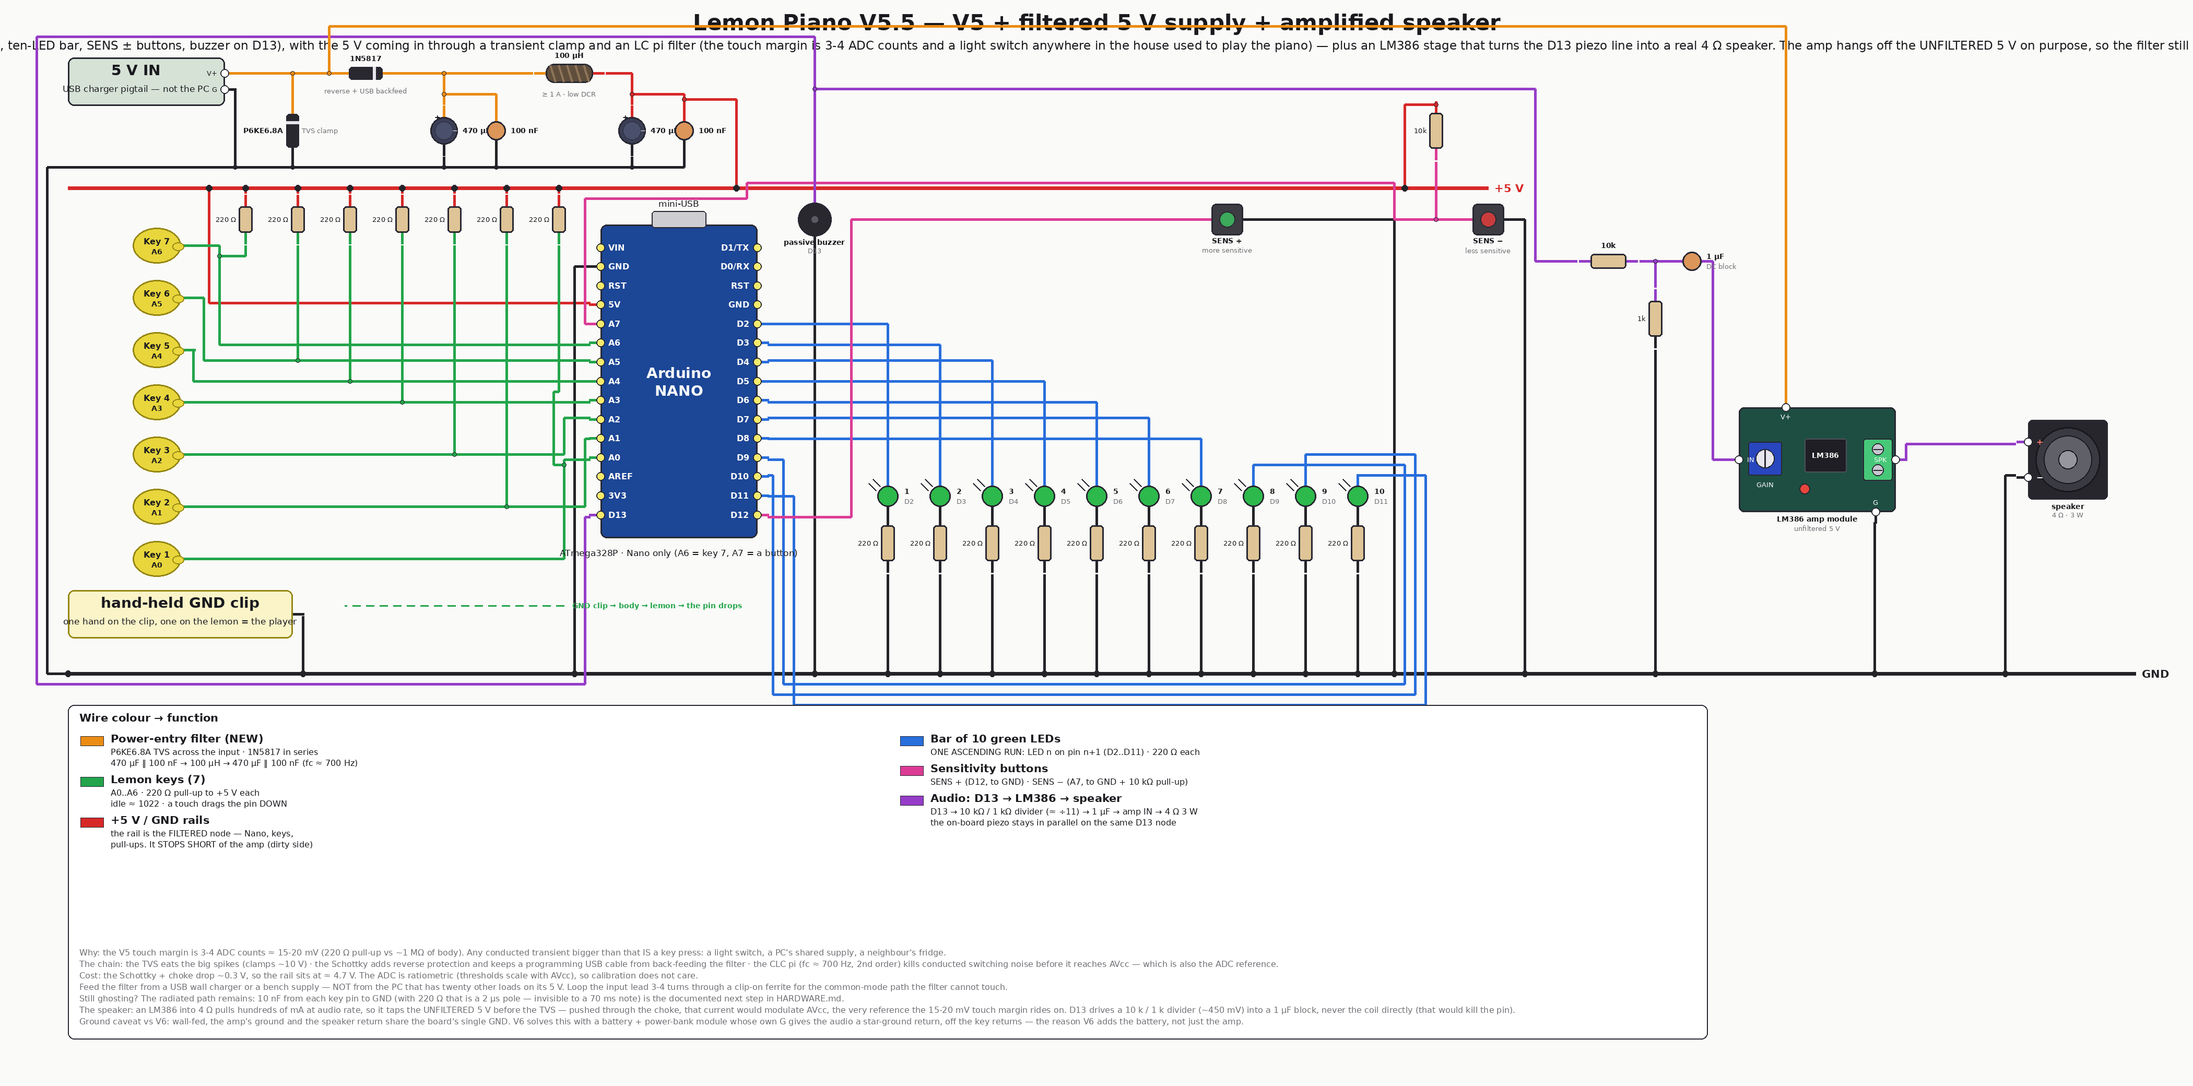
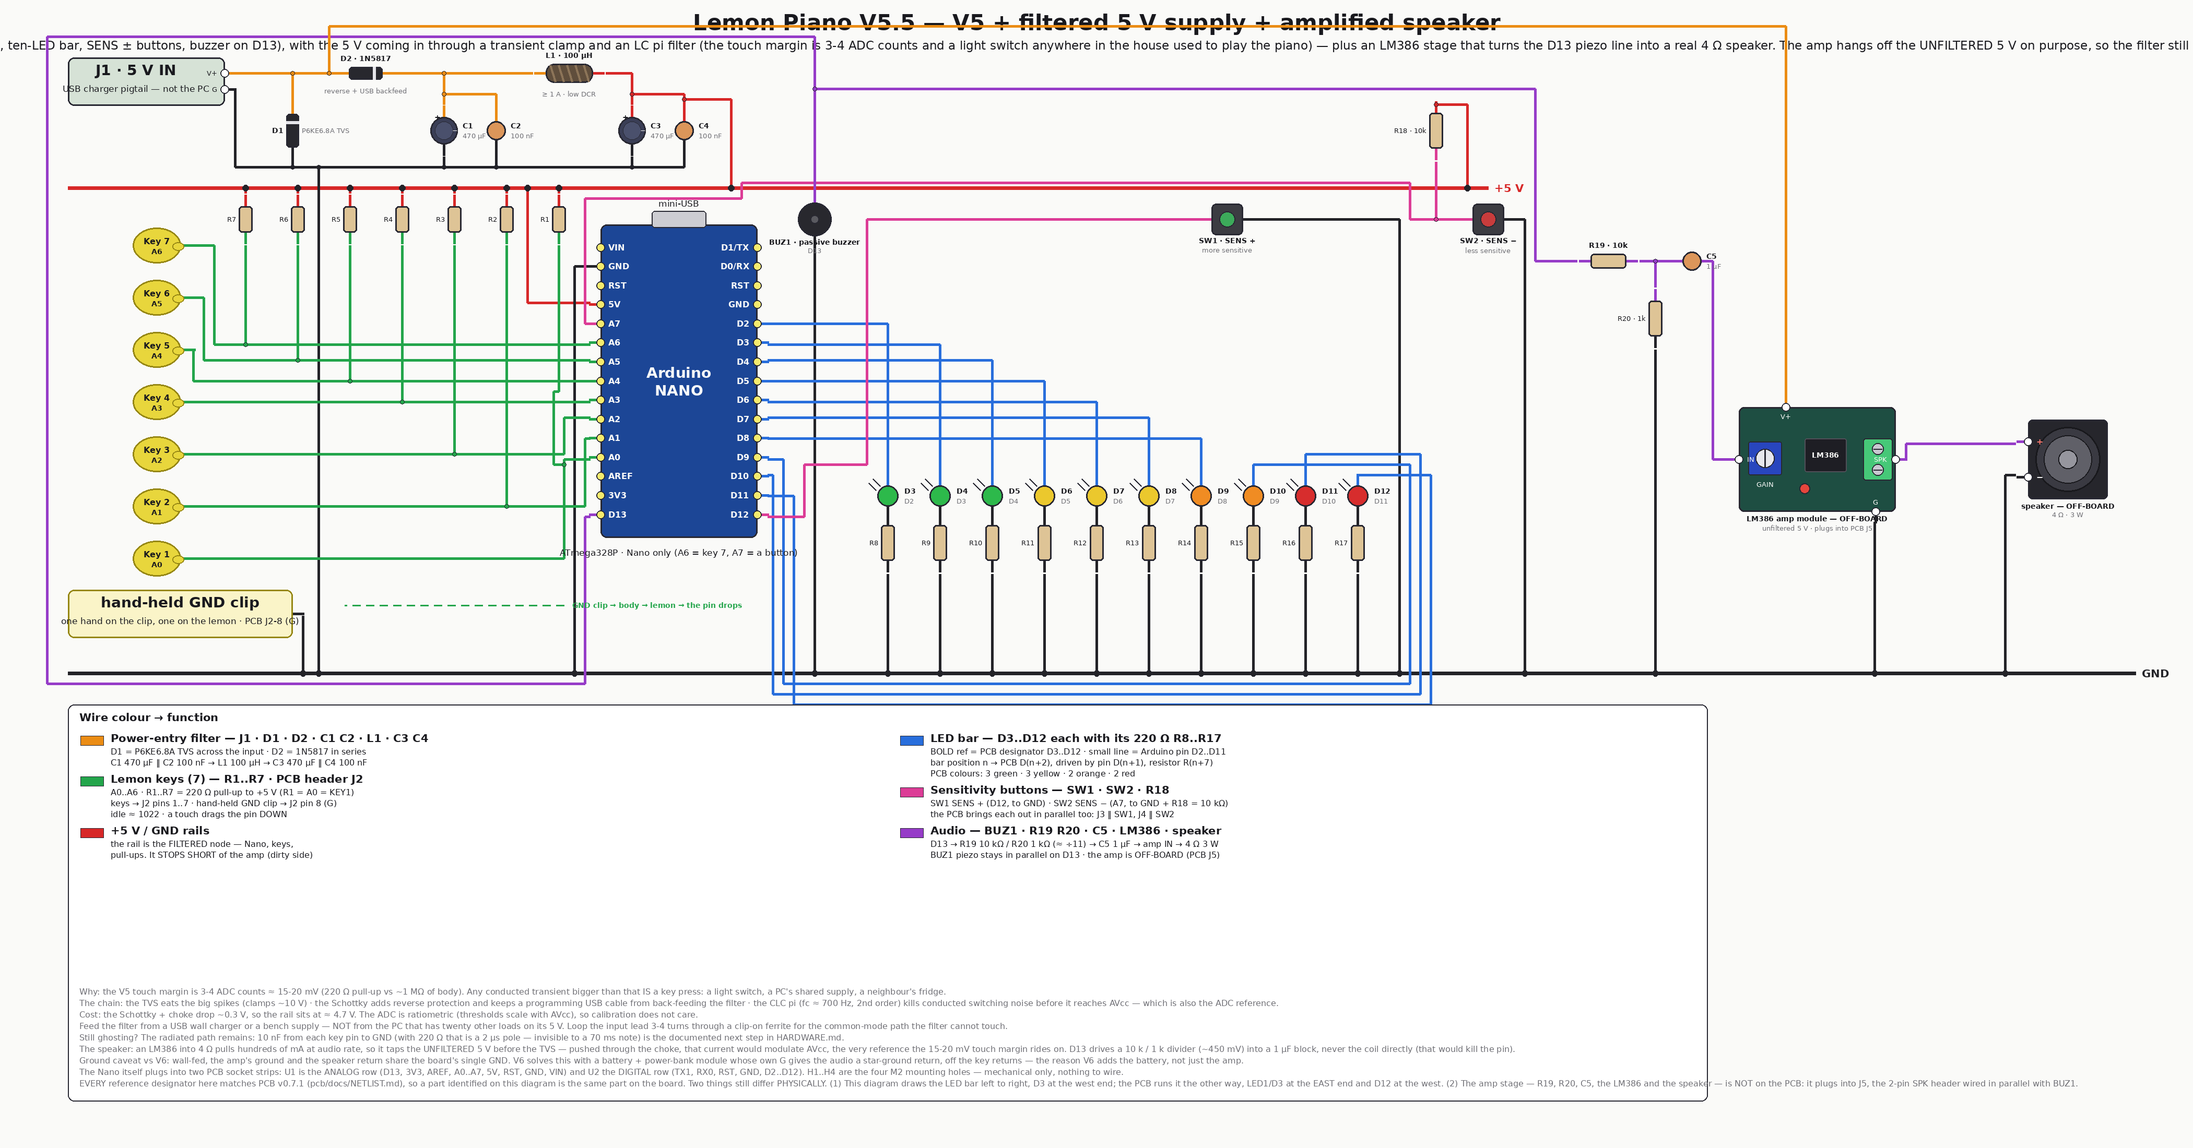
docs(v5.5): label every part in the wiring diagram with its PCB v0.7.1 designator
The V5.5 breadboard is built and the PCB exists, so a component has to be
findable on both. The diagram showed values only (470 uF, 220 Ohm), which
cannot be matched against a board silkscreen.

build_v5_5() now labels all 42 parts with the designator from
pcb/docs/NETLIST.md: J1 D1 D2 C1 C2 L1 C3 C4 for the filter, R1..R7 for the key
pull-ups (R1 = A0 = KEY1), D3..D12 with R8..R17 for the LED bar, BUZ1 SW1 SW2
R18 for the UI, and R19 R20 C5 for the off-board amp. Values move into the
legend where a part has only one text slot.

The LED bar carries BOTH numbers, because they are off by one and that is the
easiest mistake to make: the bold ref is the PCB designator D3..D12, the small
line under it is the Arduino pin D2..D11 driving it. LED colours now match the
PCB VU meter (3 green, 3 yellow, 2 orange, 2 red per ADR-021) instead of ten
green, verified by sampling the rendered pixels at the bar centres.

keyboard_2019() gains refs=False so only V5.5 opts in: re-rendering all ten
revisions changed only wiring-v5.5.png, and V1, V2, V2.5, V3, V5 and V6 are
byte-identical.

The legend adds the PCB cross-reference (J2 keys header with pin 8 = G for the
clip, J3/J4 parallel to the SENS buttons, J5 where the amp plugs in, U1/U2 the
Nano socket rows, H1..H4 the M2 holes) and states the two physical differences:
the PCB runs the LED bar the other way round with LED1/D3 at the EAST end, and
the amp stage is off-board. HARDWARE.md gains the full designator table.
[…]

diff --git a/tools/wiring_diagrams.py b/tools/wiring_diagrams.py
@@ -69,7 +69,7 @@ def _board(title, subtitle, board, h=H, gnd_y=RAIL_GND_Y, w=W,
 
 
 # ── keyboard, 2019 wiring (player holds GND, pins biased HIGH) ───────────────
-def keyboard_2019(s, fruit="banana", dx=0):
+def keyboard_2019(s, fruit="banana", dx=0, refs=False):
     """Each analog pin is pulled UP to +5 V through 220 Ω and reads ~1023 idle;
     the fruit sits directly on the pin, so touching it drags the pin down
     through the player's body to the hand-held GND clip (`analogRead <= 1019`).
@@ -80,9 +80,16 @@ def keyboard_2019(s, fruit="banana", dx=0):
     `dx` shifts the whole keyboard east. V6 needs it: the battery + power-bank
     module take the top-left corner that used to be the filter's, so the filter
     and the board it feeds both move east by the same amount and the left→right
-    power flow stays intact. dx=0 reproduces V1..V5.5 byte-for-byte."""
+    power flow stays intact. dx=0 reproduces V1..V5.5 byte-for-byte.
+
+    `refs=True` labels the pull-ups with their PCB reference designators
+    (R1..R7, where R1 = A0 = KEY1) and points the clip at the PCB's J2-8
+    terminal. Only V5.5 has a PCB, so it defaults OFF and every other
+    revision renders byte-for-byte as before."""
     s.add(lib.clip_box("CLIP", 130 + dx, 1130, w=430, title="hand-held GND clip",
-                       sub=f"one hand on the clip, one on the {fruit} = the player"))
+                       sub=(f"one hand on the clip, one on the {fruit} = the player"
+                            if not refs else
+                            f"one hand on the clip, one on the {fruit} · PCB J2-8 (G)")))
     s.connect("clipgnd", C["gnd"], P("CLIP", "out"), R("GND"))
 
     key_ys = [470 + i * 100 for i in range(7)]
@@ -92,7 +99,8 @@ def keyboard_2019(s, fruit="banana", dx=0):
         ky = key_ys[row]
         s.add(lib.lemon_key(f"K{ai}", KEY_X + dx, ky, ai + 1, f"A{ai}"))
         rx = 470 + dx + row * 100                   # own channel per key in the pull-up comb
-        s.add(lib.resistor(f"RK{ai}", rx, PULLUP_Y, orient="V", length=50))
+        s.add(lib.resistor(f"RK{ai}", rx, PULLUP_Y, orient="V", length=50,
+                           **({"label": f"R{ai + 1}"} if refs else {})))
         # ONE node: the pin, the fruit clip and the pull-up's low side.
         s.connect(f"kn{ai}", C["key"], P("U1", f"A{ai}"), P(f"K{ai}", "clip"), P(f"RK{ai}", "b"))
         s.connect(f"kp{ai}", C["v5"], P(f"RK{ai}", "a"), R("5V"))
@@ -507,22 +515,27 @@ def build_v5_5():
                "off the UNFILTERED 5 V on purpose, so the filter still only sees the "
                "keyboard's quiet load.",
                "ATmega328P · Nano only (A6 = key 7, A7 = a button)",
-               w=4200, h=2080, gnd_y=GND_2019, v5_x1=2850)
-    keyboard_2019(s, fruit="lemon")
+               w=4200, h=2200, gnd_y=GND_2019, v5_x1=2850)
+    keyboard_2019(s, fruit="lemon", refs=True)
 
     # ── the power-entry filter, left to right across the top band ────────────
-    s.add(lib.power_jack("J1", 130, 110, title="5 V IN",
+    # Every part carries its PCB v0.7.1 reference designator, so the same
+    # component can be found on the breadboard and on the board (docs/NETLIST.md:
+    # J1 5V_IN · D1 TVS · D2 Schottky · C1‖C2 input · L1 choke · C3‖C4 output).
+    s.add(lib.power_jack("J1", 130, 110, title="J1 · 5 V IN",
                          sub="USB charger pigtail — not the PC"))
-    s.add(lib.diode("DTVS", 560, 250, orient="V", flip=True, label="P6KE6.8A",
-                    sub="TVS clamp"))
-    s.add(lib.diode("DS", 700, 140, orient="H", label="1N5817",
+    s.add(lib.diode("DTVS", 560, 250, orient="V", flip=True, label="D1",
+                    sub="P6KE6.8A TVS"))
+    s.add(lib.diode("DS", 700, 140, orient="H", label="D2 · 1N5817",
                     sub="reverse + USB backfeed"))
-    s.add(lib.capacitor("CF1", 850, 250, orient="V", polarized=True, label="470 µF"))
-    s.add(lib.capacitor("CF2", 950, 250, orient="V", label="100 nF"))
-    s.add(lib.inductor("LF1", 1090, 140, orient="H", label="100 µH",
+    s.add(lib.capacitor("CF1", 850, 250, orient="V", polarized=True,
+                        label="C1", sub="470 µF"))
+    s.add(lib.capacitor("CF2", 950, 250, orient="V", label="C2", sub="100 nF"))
+    s.add(lib.inductor("LF1", 1090, 140, orient="H", label="L1 · 100 µH",
                        sub="≥ 1 A · low DCR"))
-    s.add(lib.capacitor("CF3", 1210, 250, orient="V", polarized=True, label="470 µF"))
-    s.add(lib.capacitor("CF4", 1310, 250, orient="V", label="100 nF"))
+    s.add(lib.capacitor("CF3", 1210, 250, orient="V", polarized=True,
+                        label="C3", sub="470 µF"))
+    s.add(lib.capacitor("CF4", 1310, 250, orient="V", label="C4", sub="100 nF"))
 
     s.connect("vin", C["ctrl"], P("J1", "vout"), P("DTVS", "cathode"), P("DS", "anode"),
               P("AMP", "vcc"))
@@ -532,25 +545,34 @@ def build_v5_5():
               P("CF2", "b"), P("CF3", "b"), P("CF4", "b"), R("GND"))
 
     # ── everything below is V5, unchanged ────────────────────────────────────
+    # PCB v0.7.1: the bar is D3..D12 (LED n = D(n+2)) with R8..R17 in series,
+    # and the VU colours are 3 green / 3 yellow / 2 orange / 2 red (ADR-021).
+    # The bold ref is the PCB designator, the small line under it the Arduino
+    # pin driving it — they are OFF BY ONE, which is why both are shown.
     pins = ["D2", "D3", "D4", "D5", "D6", "D7", "D8", "D9", "D10", "D11"]
+    VU = ([(45, 185, 75)] * 3 + [(235, 200, 45)] * 3
+          + [(240, 140, 35)] * 2 + [(215, 45, 45)] * 2)
     x0, dx, ybar = 1700, 100, 950
     for i, pin in enumerate(pins):
         cx = x0 + i * dx
         cid = f"L{i}"
-        s.add(lib.led(cid, cx, ybar, (45, 185, 75), str(i + 1), pin, anode="N", cathode="S"))
-        s.add(lib.resistor(f"{cid}R", cx, ybar + 90, orient="V"))
+        s.add(lib.led(cid, cx, ybar, VU[i], f"D{i + 3}", pin, anode="N", cathode="S"))
+        s.add(lib.resistor(f"{cid}R", cx, ybar + 90, orient="V",
+                           label=f"R{i + 8}"))
         s.connect(f"a{i}", C["led"], P("U1", pin), P(cid, "anode"))
         s.connect(f"c{i}", C["gnd"], P(cid, "cathode"), P(f"{cid}R", "a"))
         s.connect(f"g{i}", C["gnd"], P(f"{cid}R", "b"), R("GND"))
 
-    s.add(lib.buzzer("BUZ", 1560, 420, label="passive buzzer", pin_label="D13"))
+    s.add(lib.buzzer("BUZ", 1560, 420, label="BUZ1 · passive buzzer",
+                     pin_label="D13"))
     s.connect("buzgnd", C["gnd"], P("BUZ", "gnd"), R("GND"))
 
-    _button_to_gnd(s, "SUP", 2350, 420, "D12", "SENS +", "more sensitive",
+    _button_to_gnd(s, "SUP", 2350, 420, "D12", "SW1 · SENS +", "more sensitive",
                    C["margin"], (60, 170, 90))
 
-    s.add(lib.push_button("SDN", 2850, 420, "SENS −", "less sensitive", cap=(200, 60, 60)))
-    s.add(lib.resistor("SDNPU", 2750, 250, orient="V", label="10k"))
+    s.add(lib.push_button("SDN", 2850, 420, "SW2 · SENS −", "less sensitive",
+                          cap=(200, 60, 60)))
+    s.add(lib.resistor("SDNPU", 2750, 250, orient="V", label="R18 · 10k"))
     s.connect("sdnsig", C["margin"], P("U1", "A7"), P("SDN", "pin"), P("SDNPU", "b"))
     s.connect("sdnpu", C["v5"], P("SDNPU", "a"), R("5V"))
     s.connect("sdngnd", C["gnd"], P("SDN", "v5"), R("GND"))
@@ -562,12 +584,14 @@ def build_v5_5():
     # the ADC reference the 3-4-count touch margin is measured against. D13 drives
     # a 10 k / 1 k divider (never a bare coil — that would kill the pin), the 1 µF
     # blocks D13's DC average, and the on-board piezo stays in parallel on D13.
-    s.add(lib.resistor("R19", 3080, 500, orient="H", label="10k"))
-    s.add(lib.resistor("R20", 3170, 610, orient="V", label="1k"))
-    s.add(lib.capacitor("C5", 3240, 500, orient="H", label="1 µF", sub="DC block"))
+    s.add(lib.resistor("R19", 3080, 500, orient="H", label="R19 · 10k"))
+    s.add(lib.resistor("R20", 3170, 610, orient="V", label="R20 · 1k"))
+    s.add(lib.capacitor("C5", 3240, 500, orient="H", label="C5", sub="1 µF"))
     s.add(lib.amp_module("AMP", 3480, 880, chip="LM386",
-                         label="LM386 amp module", sub="unfiltered 5 V"))
-    s.add(lib.speaker("SPK", 3960, 880, label="speaker", sub="4 Ω · 3 W"))
+                         label="LM386 amp module — OFF-BOARD",
+                         sub="unfiltered 5 V · plugs into PCB J5"))
+    s.add(lib.speaker("SPK", 3960, 880, label="speaker — OFF-BOARD",
+                      sub="4 Ω · 3 W"))
 
     s.connect("buzsig", C["buzz"], P("U1", "D13"), P("BUZ", "sig"), P("R19", "a"))
     s.connect("attn", C["buzz"], P("R19", "b"), P("R20", "a"), P("C5", "a"))
@@ -578,20 +602,25 @@ def build_v5_5():
     s.connect("spkret", C["gnd"], P("SPK", "n"), R("GND"))
 
     entries = [
-        (C["ctrl"], "Power-entry filter (NEW)",
-         ["P6KE6.8A TVS across the input · 1N5817 in series",
-          "470 µF ‖ 100 nF → 100 µH → 470 µF ‖ 100 nF (fc ≈ 700 Hz)"]),
-        (C["key"], "Lemon keys (7)", ["A0..A6 · 220 Ω pull-up to +5 V each",
-                                      "idle ≈ 1022 · a touch drags the pin DOWN"]),
+        (C["ctrl"], "Power-entry filter — J1 · D1 · D2 · C1 C2 · L1 · C3 C4",
+         ["D1 = P6KE6.8A TVS across the input · D2 = 1N5817 in series",
+          "C1 470 µF ‖ C2 100 nF → L1 100 µH → C3 470 µF ‖ C4 100 nF"]),
+        (C["key"], "Lemon keys (7) — R1..R7 · PCB header J2",
+         ["A0..A6 · R1..R7 = 220 Ω pull-up to +5 V (R1 = A0 = KEY1)",
+          "keys → J2 pins 1..7 · hand-held GND clip → J2 pin 8 (G)",
+          "idle ≈ 1022 · a touch drags the pin DOWN"]),
         (C["v5"], "+5 V / GND rails", ["the rail is the FILTERED node — Nano, keys,",
                                        "pull-ups. It STOPS SHORT of the amp (dirty side)"]),
-        (C["led"], "Bar of 10 green LEDs",
-         ["ONE ASCENDING RUN: LED n on pin n+1 (D2..D11) · 220 Ω each"]),
-        (C["margin"], "Sensitivity buttons",
-         ["SENS + (D12, to GND) · SENS − (A7, to GND + 10 kΩ pull-up)"]),
-        (C["buzz"], "Audio: D13 → LM386 → speaker",
-         ["D13 → 10 kΩ / 1 kΩ divider (≈ ÷11) → 1 µF → amp IN → 4 Ω 3 W",
-          "the on-board piezo stays in parallel on the same D13 node"]),
+        (C["led"], "LED bar — D3..D12 each with its 220 Ω R8..R17",
+         ["BOLD ref = PCB designator D3..D12 · small line = Arduino pin D2..D11",
+          "bar position n → PCB D(n+2), driven by pin D(n+1), resistor R(n+7)",
+          "PCB colours: 3 green · 3 yellow · 2 orange · 2 red"]),
+        (C["margin"], "Sensitivity buttons — SW1 · SW2 · R18",
+         ["SW1 SENS + (D12, to GND) · SW2 SENS − (A7, to GND + R18 = 10 kΩ)",
+          "the PCB brings each out in parallel too: J3 ‖ SW1, J4 ‖ SW2"]),
+        (C["buzz"], "Audio — BUZ1 · R19 R20 · C5 · LM386 · speaker",
+         ["D13 → R19 10 kΩ / R20 1 kΩ (≈ ÷11) → C5 1 µF → amp IN → 4 Ω 3 W",
+          "BUZ1 piezo stays in parallel on D13 · the amp is OFF-BOARD (PCB J5)"]),
     ]
     notes = [("Why: the V5 touch margin is 3-4 ADC counts ≈ 15-20 mV (220 Ω pull-up vs "
               "~1 MΩ of body). Any conducted transient bigger than that IS a key press: "
@@ -617,9 +646,20 @@ def build_v5_5():
              ("Ground caveat vs V6: wall-fed, the amp's ground and the speaker return "
               "share the board's single GND. V6 solves this with a battery + power-bank "
               "module whose own G gives the audio a star-ground return, off the key "
-              "returns — the reason V6 adds the battery, not just the amp.", C["muted"])]
+              "returns — the reason V6 adds the battery, not just the amp.", C["muted"]),
+             ("The Nano itself plugs into two PCB socket strips: U1 is the ANALOG row "
+              "(D13, 3V3, AREF, A0..A7, 5V, RST, GND, VIN) and U2 the DIGITAL row "
+              "(TX1, RX0, RST, GND, D2..D12). H1..H4 are the four M2 mounting holes — "
+              "mechanical only, nothing to wire.", C["muted"]),
+             ("EVERY reference designator here matches PCB v0.7.1 (pcb/docs/NETLIST.md), "
+              "so a part identified on this diagram is the same part on the board. Two "
+              "things still differ PHYSICALLY. (1) This diagram draws the LED bar left to "
+              "right, D3 at the west end; the PCB runs it the other way, LED1/D3 at the "
+              "EAST end and D12 at the west. (2) The amp stage — R19, R20, C5, the LM386 "
+              "and the speaker — is NOT on the PCB: it plugs into J5, the 2-pin SPK "
+              "header wired in parallel with BUZ1.", C["muted"])]
     s.decorations.append(deco.legend(entries=entries, notes=notes,
-                                     **_legend_box(GND_2019, h=640)))
+                                     **_legend_box(GND_2019, h=760)))
     return s, "v5.5-power-filter", "wiring-v5.5.png"
 
 

diff --git a/CHANGELOG.md b/CHANGELOG.md
@@ -2,6 +2,40 @@
 
 Append-only log of significant changes. Newest first.
 
+## 2026-09-12 — V5.5 wiring diagram: every part labelled with its PCB v0.7.1 reference designator
+
+- **Why**: the V5.5 breadboard is built and the PCB exists, so a part has to be
+  findable on both. The diagram previously showed values only (`470 µF`,
+  `220 Ω`), which cannot be matched to a board silkscreen.
+- **`build_v5_5()`** in `tools/wiring_diagrams.py` now labels all 42 parts with
+  the designator from `pcb/docs/NETLIST.md`: `J1 D1 D2 C1 C2 L1 C3 C4`
+  (filter), `R1..R7` (key pull-ups, R1 = A0 = KEY1), `D3..D12` + `R8..R17`
+  (LED bar), `BUZ1 SW1 SW2 R18` (UI) and `R19 R20 C5` (the off-board amp).
+  Values move to the legend where a part has only one text slot.
+- **LED bar now carries BOTH numbers**, because they are off by one and that is
+  the easiest mistake to make: the bold ref is the PCB designator `D3..D12`,
+  the small line under it is the Arduino pin `D2..D11` that drives it.
+- **LED colours now match the PCB VU meter** (3 green, 3 yellow, 2 orange,
+  2 red per ADR-021) instead of ten green, verified by sampling the rendered
+  pixels at the bar centres.
+- **`keyboard_2019()` gains `refs=False`** so only V5.5 opts in. Re-rendering
+  all ten revisions changed **only** `wiring-v5.5.png`; V1, V2, V2.5, V3, V5
+  and V6 are byte-identical.
+- The legend gains the PCB cross-reference: the keys land on `J2` (pin 8 = `G`,
+  the hand-held clip), `J3`/`J4` parallel the SENS buttons, `J5` is where the
+  amp plugs in, `U1`/`U2` are the Nano's socket rows, `H1..H4` the M2 holes.
+  It also states the two physical differences: the PCB runs the LED bar the
+  other way round (LED1/D3 at the EAST end), and the amp stage is off-board.
+- The SENS buttons keep their `SW1`/`SW2` hardware labels; the FREE PLAY /
+  MODE WHEEL roles added on 2026-09-09 are firmware on the same two buttons,
+  no wiring change.
+- `versions/v5.5-power-filter/HARDWARE.md` gains the full designator table.
+- **Verification**: 64 nets, **0 spacing warnings, 0 hard violations** (the
+  wirewright DRC treats label boxes as obstacles, so it is what proves the new
+  longer labels do not collide); all ten diagrams re-rendered clean; label
+  text dumped from the built schematic to confirm all 42 designators are
+  actually drawn.
+
 ## 2026-09-12 — v0.7.1 assembled and silent: review, board probe, doc correction
 
 The real PCB arrived, was assembled, and plays nothing — touching a lemon or an

diff --git a/versions/v5.5-power-filter/HARDWARE.md b/versions/v5.5-power-filter/HARDWARE.md
@@ -116,6 +116,41 @@ felt:
    (±1–2 counts). If filtered still shows events, they are common-mode or
    radiated — ferrite turns first, then the V5.6 pin capacitors.
 
+## Reference designators (shared with PCB v0.7.1)
+
+Since 2026-09-12 the wiring diagram labels **every** part with the same
+reference designator the PCB uses, so a component identified on the breadboard
+is the same component on the board. Ground truth: [`pcb/docs/NETLIST.md`](../../pcb/docs/NETLIST.md).
+
+| Ref | Part | Function / node |
+|---|---|---|
+| J1 | 2-pin 5 V input | `VIN` + `GND` — the filter's entry |
+| D1 | P6KE6.8A TVS | across the input, clamps to `GND` |
+| D2 | 1N5817 Schottky | series, `VIN` → `VRAW` |
+| C1 ‖ C2 | 470 µF ‖ 100 nF | input reservoir on `VRAW` |
+| L1 | 100 µH choke | series, `VRAW` → `+5V` |
+| C3 ‖ C4 | 470 µF ‖ 100 nF | output reservoir on `+5V` (the rail = AVcc) |
+| **R1–R7** | 220 Ω | key pull-ups — **R1 = A0 = KEY1** … R7 = A6 = KEY7 |
+| **R8–R17** | 220 Ω | LED series — LED *n* uses **R(n+7)** |
+| R18 | 10 kΩ | `SENS_MINUS` pull-up on A7 (A7 has no internal one) |
+| **D3–D12** | 3 mm LED | the bar — LED *n* is **D(n+2)**, driven by pin **D(n+1)** |
+| BUZ1 | passive buzzer | `/BUZZER` on D13 |
+| SW1 / SW2 | SENS + / SENS − | D12 → GND · A7 → GND |
+| U1 / U2 | Nano socket rows | U1 = analog row, U2 = digital row |
+| J2 | keys header (PCB only) | pins 1–7 = KEY1–KEY7, pin 8 = `G`, the hand-held clip |
+| J3 / J4 | EXT button headers (PCB only) | wired in parallel with SW1 / SW2 |
+| J5 | `SPK` aux header (PCB only) | in parallel with BUZ1 — where the amp plugs in |
+| R19, R20, C5 | 10 kΩ, 1 kΩ, 1 µF | **off-board** amp divider, D13 → LM386 |
+| H1–H4 | M2 mounting holes (PCB only) | mechanical, nothing to wire |
+
+Two things differ **physically** between the diagram and the board, and both
+are called out on the drawing itself:
+
+1. The diagram draws the LED bar left to right with **D3 at the west end**; the
+   PCB runs it the other way, **LED1/D3 at the EAST end** and D12 at the west.
+2. The amp stage (R19, R20, C5, the LM386 module and the speaker) is **not on
+   the PCB**. It plugs into **J5**, the 2-pin `SPK` header across BUZ1.
+
 ## Diagrams
 
 | File | What it shows |
